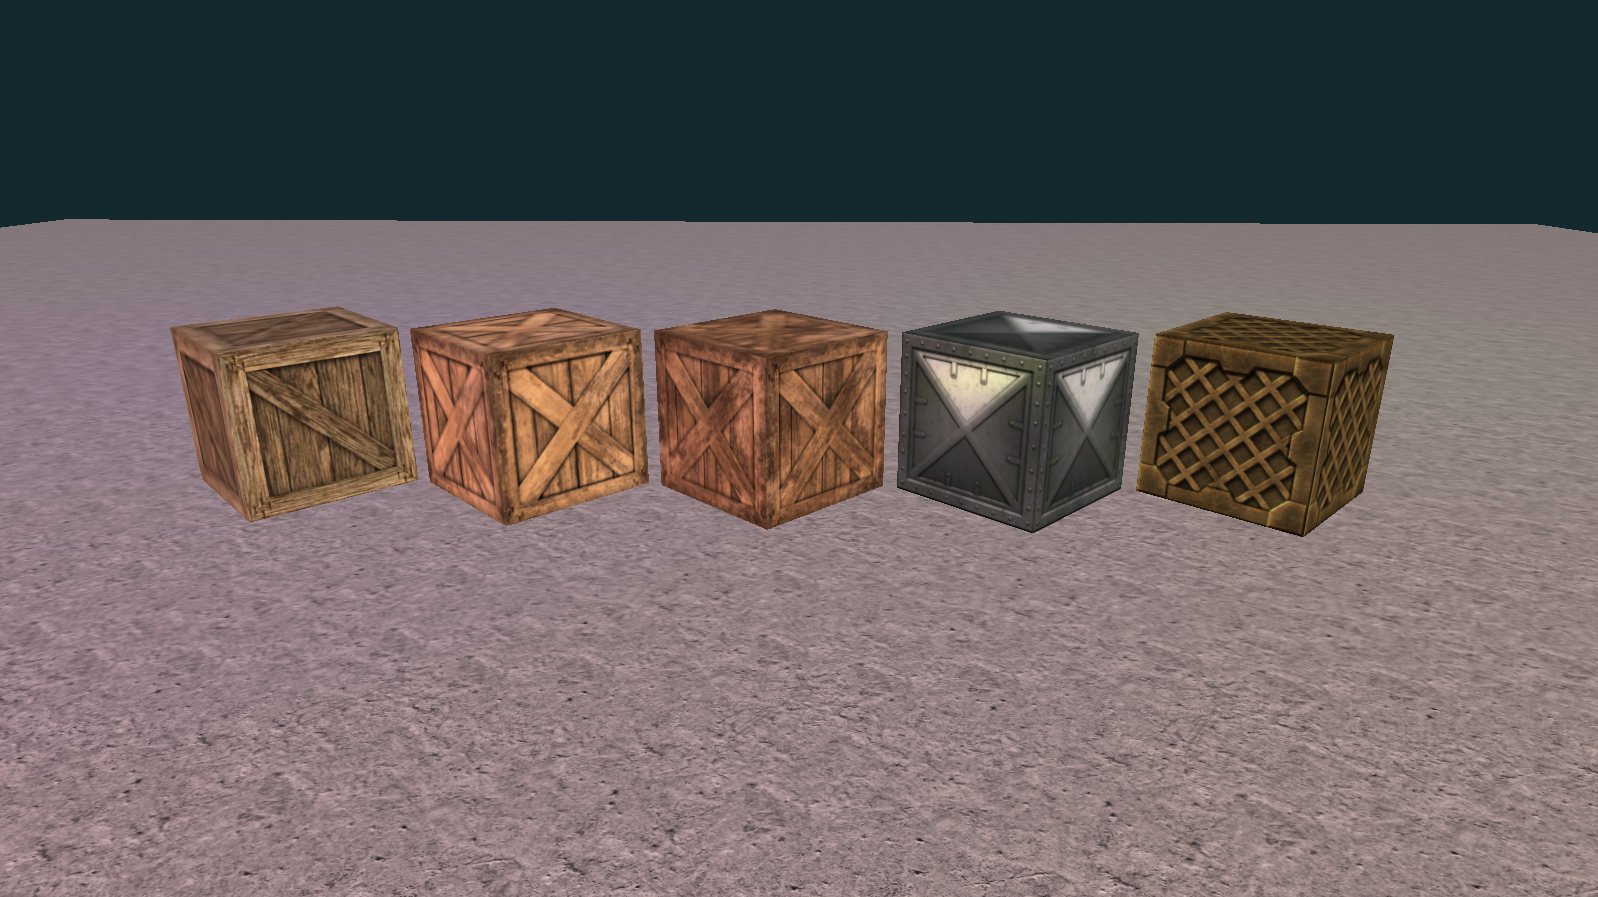
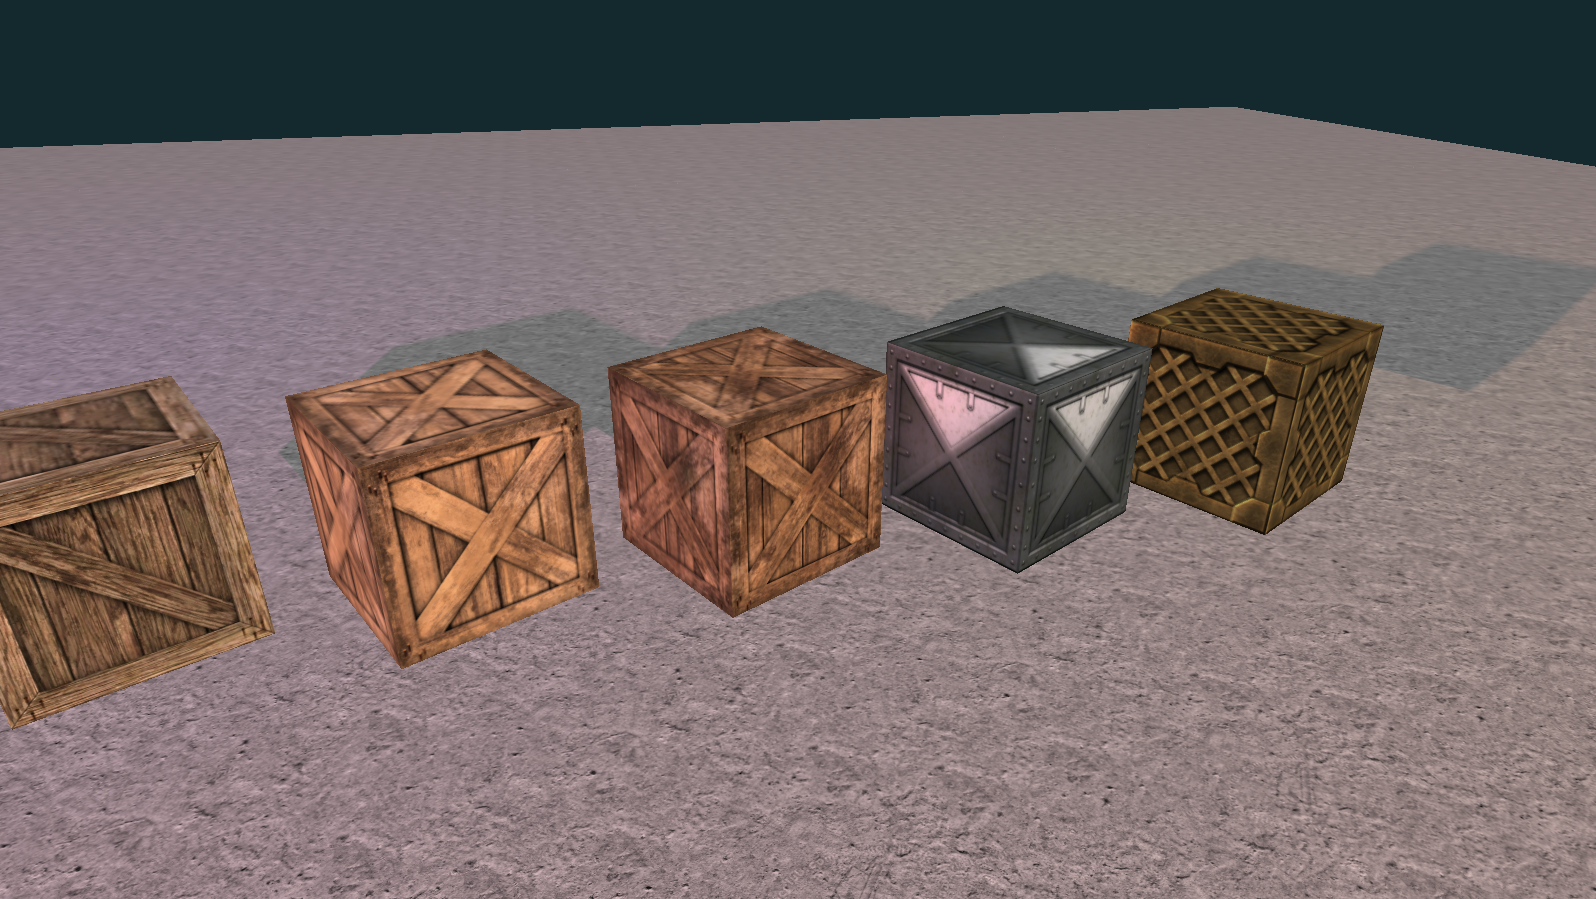
add shadow to pbr

diff --git a/mgl/pbr/model.py b/mgl/pbr/model.py
@@ -2,6 +2,11 @@ import glm
 import numpy
 
 
+def generate_vertex_data(vertices, indices):
+    data = [vertices[ind] for triangle in indices for ind in triangle]
+    return numpy.array(data, dtype='f4')
+
+
 class Cube:
     def __init__(self, app, albedo=(0.9, 0.1, 0.1),
                  metallic: float = 0.0, roughness: float = 0.0, ao: float = 1.0,
@@ -14,15 +19,23 @@ class Cube:
         self.metallic = metallic
         self.roughness = roughness
         self.ao = ao
+
         self.vbo = self.get_vbo()
-        self.shader_program = self.get_shader_program()
+        self.shader_program = app.shader.get_shader('default')
         self.vao = self.get_vao()
+
+        # self.shadow_vbo = self.get_vbo()
+        self.shadow_program = app.shader.get_shader('shadow')
+        self.shadow_vao = self.get_shadow_vao()
+
         self.tex_id = app.texture.get_texture(path=f'textures/{texture}.png')
+        self.depth_tex_id = app.shadow.depth_tex_id
+        self.m_model = self.position
         self.on_init()
 
     def on_init(self):
-        # Texture
-        self.shader_program['u_texture_0'] = self.tex_id
+        # Set resolution
+        self.shader_program['u_resolution'].write(glm.vec2(self.app.win_size))
         # n lights
         self.shader_program['num_lights'].value = len(self.app.lights)
         # Send lights into uniform array of Light struct
@@ -30,6 +43,7 @@ class Cube:
             self.shader_program[f'lights[{i}].position'].value = light.position
             self.shader_program[f'lights[{i}].color'].value = light.color
             self.shader_program[f'lights[{i}].strength'].value = light.strength
+        self.shader_program['m_view_light'].write(self.app.light.m_view_light)
         # Position
         self.shader_program['m_proj'].write(self.app.camera.m_proj)
         self.shader_program['m_view'].write(self.app.camera.m_view)
@@ -39,28 +53,74 @@ class Cube:
         self.shader_program['material.Km'].value = self.metallic
         self.shader_program['material.Kr'].value = self.roughness
         self.shader_program['material.Kao'].value = self.ao
+        # Shadow depth map
+        self.shader_program['u_shadow_map'] = self.depth_tex_id
+        self.app.texture.textures[self.depth_tex_id].use(location=self.depth_tex_id)
         # Camera
         self.shader_program['camPos'].write = self.app.camera.position
+        # Shadow program
+        self.shadow_program['m_proj'].write(self.app.camera.m_proj)
+        self.shadow_program['m_view_light'].write(self.app.light.m_view_light)
+        self.shadow_program['m_model'].write(self.m_model)
 
     def update(self):
-        m_model = glm.rotate(self.position, self.app.time, glm.vec3(0, 1, 0))
-        self.shader_program['m_view'].write(self.app.camera.m_view)
-        self.shader_program['m_model'].write(m_model)
-        self.shader_program['camPos'].write = self.app.camera.position
+        self.m_model = glm.rotate(self.position, self.app.time, glm.vec3(0, 1, 0))
 
     def render(self):
+        # n lights
+        self.shader_program['num_lights'].value = len(self.app.lights)
+        # Send lights into uniform array of Light struct
+        for i, light in enumerate(self.app.lights):
+            self.shader_program[f'lights[{i}].position'].value = light.position
+            self.shader_program[f'lights[{i}].color'].value = light.color
+            self.shader_program[f'lights[{i}].strength'].value = light.strength
+        self.shader_program['m_view_light'].write(self.app.light.m_view_light)
+        # Position
+        self.shader_program['m_proj'].write(self.app.camera.m_proj)
+        self.shader_program['m_view'].write(self.app.camera.m_view)
+        self.shader_program['m_model'].write(self.m_model)
+        # Material: Albedo (rgb), metallic, rough, ao
+        self.shader_program['material.Ka'].value = self.albedo
+        self.shader_program['material.Km'].value = self.metallic
+        self.shader_program['material.Kr'].value = self.roughness
+        self.shader_program['material.Kao'].value = self.ao
+        # Shadow depth map
+        self.shader_program['u_shadow_map'] = self.depth_tex_id
+        self.app.texture.textures[self.depth_tex_id].use(location=self.depth_tex_id)
+        # Camera
+        self.shader_program['camPos'].write = self.app.camera.position
+        # Texture
+        self.shader_program['u_texture_0'] = self.tex_id
         self.app.texture.textures[self.tex_id].use(location=self.tex_id)
+        # Render
         self.vao.render()
 
+    def render_shadow(self):
+        self.shadow_program['m_proj'].write(self.app.camera.m_proj)
+        self.shadow_program['m_view_light'].write(self.app.light.m_view_light)
+        self.shadow_program['m_model'].write(self.m_model)
+        self.shadow_vao.render()
+
     def destroy(self):
-        self.vbo.release()
-        self.shader_program.release()
         self.vao.release()
+        self.shadow_vao.release()
+        self.shader_program.release()
+        self.shadow_program.release()
+        self.vbo.release()
+        # self.shadow_vbo.release()
 
     def get_vao(self):
         vao = self.ctx.vertex_array(self.shader_program, [
             (self.vbo, '2f 3f 3f', 'in_texcoord_0', 'in_position', 'in_normal'),
         ])
+        return vao
+
+    def get_shadow_vao(self):
+        vao = self.ctx.vertex_array(self.shadow_program, [
+            (self.vbo, '2f 3f 3f', 'in_texcoord_0', 'in_position', 'in_normal'),
+        ], skip_errors=True)
+        # Temporary fix for the issue with the shadow program because we are not using texture coordinates
+        # So we set skip_errors=True to ignore the missing in_texcoord_0 attribute
         return vao
 
     def get_vertex_data(self, size=(0.5, 0.5, 0.5)):
@@ -77,7 +137,7 @@ class Cube:
             (3, 7, 4), (3, 2, 7),
             (0, 6, 1), (0, 5, 6),
         ]
-        vertex_data = self.generate_vertex_data(vertices, indices)
+        vertex_data = generate_vertex_data(vertices, indices)
 
         # Texture coordinates
         texture_coords = [(0, 0), (1, 0), (1, 1), (0, 1)]
@@ -87,7 +147,7 @@ class Cube:
                            (2, 3, 0), (2, 0, 1),
                            (0, 2, 3), (0, 1, 2),
                            (3, 1, 2), (3, 0, 1)]
-        texture_coord_data = self.generate_vertex_data(texture_coords, texture_indices)
+        texture_coord_data = generate_vertex_data(texture_coords, texture_indices)
         vertex_data = numpy.hstack([texture_coord_data, vertex_data])
 
         # Normals
@@ -104,24 +164,8 @@ class Cube:
 
         return numpy.array(vertex_data, dtype='f4')
 
-    @staticmethod
-    def generate_vertex_data(vertices, indices):
-        data = [vertices[ind] for triangle in indices for ind in triangle]
-        return numpy.array(data, dtype='f4')
-
     def get_vbo(self):
         return self.ctx.buffer(self.get_vertex_data(size=self.size))
-
-    def get_shader_program(self, shader_name='default'):
-        with open(f'{self.app.base_path}/{shader_name}.vert', 'r') as f:
-            vertex_shader_source = f.read()
-        with open(f'{self.app.base_path}/{shader_name}.frag', 'r') as f:
-            fragment_shader_source = f.read()
-        shader_program = self.ctx.program(
-            vertex_shader=vertex_shader_source,
-            fragment_shader=fragment_shader_source,
-        )
-        return shader_program
 
 
 class Floor(Cube):

diff --git a/mgl/pbr/core.py b/mgl/pbr/core.py
@@ -100,6 +100,48 @@ class Light:
         return glm.lookAt(self.position, self.direction, glm.vec3(0, 1, 0))
 
 
+class Shader():
+    def __init__(self, app):
+        self.app = app
+        self.ctx = app.ctx
+        self.programs = []
+        self.programs_count = -1
+        self.programs_map = {}
+
+    def get_shader(self, shader_name, geometry=False):
+        if shader_name in self.programs_map:
+            # print(f"Reuse shader: {shader_name} at index: {self.programs_map[shader_name]}")
+            return self.programs[self.programs_map[shader_name]]
+
+        with open(f'{self.app.base_path}/{self.app.shader_path}/{shader_name}.vert', 'r') as f:
+            vertex_shader_source = f.read()
+        with open(f'{self.app.base_path}/{self.app.shader_path}/{shader_name}.frag', 'r') as f:
+            fragment_shader_source = f.read()
+
+        if geometry is True:
+            with open(f'{self.app.base_path}/{self.app.shader_path}/{shader_name}.geom', 'r') as f:
+                geometry_shader_source = f.read()
+            shader_program = self.ctx.program(
+                vertex_shader=vertex_shader_source,
+                fragment_shader=fragment_shader_source,
+                geometry_shader=geometry_shader_source,
+            )
+        else:
+            shader_program = self.ctx.program(
+                vertex_shader=vertex_shader_source,
+                fragment_shader=fragment_shader_source,
+            )
+        self.programs_count += 1
+        self.programs_map[shader_name] = self.programs_count
+        self.programs.append(shader_program)
+        print(f"loaded shader: {shader_name} at index: {self.programs_count}")
+        return shader_program
+
+    def destroy(self):
+        for program in self.programs:
+            program.release()
+
+
 class Texture:
     def __init__(self, app):
         self.app = app
@@ -128,3 +170,53 @@ class Texture:
         self.texture_map[path] = self.texture_count
         self.textures.append(texture)
         return self.texture_count
+
+    def get_depth_texture(self, size, name='depth_texture'):
+        if name in self.texture_map:
+            return self.texture_map[name]
+        depth_texture = self.ctx.depth_texture(size=size)
+        # Remove repetition
+        depth_texture.repeat_x = False
+        depth_texture.repeat_y = False
+        # Add to list
+        self.texture_count += 1
+        self.texture_map[name] = self.texture_count
+        self.textures.append(depth_texture)
+        print(f"loaded depth texture: {name} at index: {self.texture_count}")
+        return self.texture_count
+
+    def get_color_texture(self, size, name='color_texture'):
+        if name in self.texture_map:
+            return self.texture_map[name]
+        color_texture = self.ctx.texture(size=size, components=4, samples=4)
+        # Remove repetition
+        color_texture.repeat_x = False
+        color_texture.repeat_y = False
+        # Add to list
+        self.texture_count += 1
+        self.texture_map[name] = self.texture_count
+        self.textures.append(color_texture)
+        print(f"loaded color texture: {name} at index: {self.texture_count}")
+        return self.texture_count
+
+    def destroy(self):
+        for texture in self.textures:
+            texture.release()
+
+
+class Shadow():
+    def __init__(self, app):
+        self.app = app
+        self.ctx = app.ctx
+
+        # Using a texture here not a renderbuffer because we pass it to the shader
+        self.depth_tex_id = self.app.texture.get_depth_texture(self.app.win_size)
+        self.depth_texture = self.app.texture.textures[self.depth_tex_id]
+        # self.depth_buffer = self.ctx.depth_renderbuffer(size=self.app.win_size)
+
+        self.depth_fbo = self.ctx.framebuffer(depth_attachment=self.depth_texture)
+        # self.depth_fbo = self.ctx.framebuffer(depth_attachment=self.depth_buffer)
+
+    def destroy(self):
+        self.depth_fbo.release()
+        self.depth_texture.release()

diff --git a/mgl/pbr/main.py b/mgl/pbr/main.py
@@ -3,7 +3,7 @@ import moderngl
 import sys
 
 from model import Cube, Floor
-from core import Camera, Light, Texture
+from core import Camera, Light, Shadow, Texture, Shader
 
 
 class GraphicsEngine:
@@ -13,6 +13,7 @@ class GraphicsEngine:
     vertical_sync = 0
     target_display = 0
     base_path = '.'
+    shader_path = 'shaders'
     # Variables
     fps = 0
     time = 0
@@ -48,6 +49,10 @@ class GraphicsEngine:
         pygame.time.set_timer(pygame.USEREVENT, 1000 // self.target_fps)
         # Camera
         self.camera = Camera(self, position=(0, 0, 5))
+        # Texture, Shader, Shadow
+        self.texture = Texture(self)
+        self.shader = Shader(self)
+        self.shadow = Shadow(self)
         # Light
         self.light = Light(position=(-5, 2, 5), color=(1.0, 0.0, 0.0), strength=10.0)
         # Light 2
@@ -58,8 +63,6 @@ class GraphicsEngine:
         self.light4 = Light(position=(5, 2, -5), color=(0.0, 1.0, 0.0), strength=20.0)
         # Lights
         self.lights = [self.light, self.light2, self.light3, self.light4]
-        # Texture
-        self.texture = Texture(self)
         # Scene
         self.scene = []
         # Create a nxn grid of Floor
@@ -104,11 +107,21 @@ class GraphicsEngine:
             obj.update()
 
     def render(self):
-        # Clear frame buffer
+        # Clear buffers
+        self.shadow.depth_fbo.clear()
         self.ctx.clear(color=(0.08, 0.16, 0.18))
+
+        # Pass 1 - Render the depth map for the shadows
+        self.shadow.depth_fbo.use()  # Switch to the shadow framebuffer
+        for obj in self.scene:
+            obj.render_shadow()
+
+        # Pass 2 - Render the scene
+        self.ctx.screen.use()  # Switch back to the screen
         # Render scene
         for obj in self.scene:
             obj.render()
+
         # Swap buffers
         pygame.display.flip()
 

diff --git a/mgl/cubes_2/model.py b/mgl/cubes_2/model.py
@@ -29,7 +29,7 @@ class Cube:
         self.shadow_vao = self.get_shadow_vao()
 
         self.tex_id = app.texture.get_texture(path=f'textures/{texture}.png')
-        self.depth_tex_id = app.texture.get_texture("depth_texture")
+        self.depth_tex_id = app.shadow.depth_tex_id
         self.m_model = self.position
         self.on_init()
 
@@ -43,6 +43,7 @@ class Cube:
             self.shader_program[f'lights[{i}].position'].value = light.position
             self.shader_program[f'lights[{i}].color'].value = light.color
             self.shader_program[f'lights[{i}].strength'].value = light.strength
+        self.shader_program['m_view_light'].write(self.app.light.m_view_light)
         # Position
         self.shader_program['m_proj'].write(self.app.camera.m_proj)
         self.shader_program['m_view'].write(self.app.camera.m_view)
@@ -54,7 +55,6 @@ class Cube:
         self.shader_program['material.Kao'].value = self.ao
         # Shadow depth map
         self.shader_program['u_shadow_map'] = self.depth_tex_id
-        self.shader_program['m_view_light'].write(self.app.light.m_view_light)
         self.app.texture.textures[self.depth_tex_id].use(location=self.depth_tex_id)
         # Texture
         self.shader_program['u_texture_0'] = self.tex_id

diff --git a/README.md b/README.md
@@ -107,7 +107,7 @@ Using textured cubes, shader programs, skybox, lighting and shadows. This is the
 
 This project is useful to highlight reuse of assets and resources in ModernGL. So the class structure and caching of resources is important to reduce memory usage and improve rendering performance.
 
-### mgl/pbr - Physically based rendering
+### mgl/pbr - Physically based rendering + Shadows
 
 Physically Based Rendering (PBR) is a rendering technique that simulates the way light interacts with materials in the real world. It is based on the physics of light and materials, and it is used to create realistic lighting and shading effects in 3D graphics.
 
@@ -175,9 +175,11 @@ In the case of large scenes, we need to use a 'chunk' system to load and unload 
 
 ### mgl/ground_4 - Chunks + dynamic loading
 
-<!-- Obviously the ground_3 demo is slow with a large height map, so I've added a chunk system to load and unload parts of the height map as the camera moves around. -->
+Obviously the ground_3 demo is slow with a large height map, so I've added a chunk system to load and unload parts of the height map as the camera moves around.
 
 <!-- ![Screenshots](./screenshots/mgl_ground4.PNG) -->
+
+This is an excellent showcase of data-structures and algorithms in action. The chunk system is a way to load and unload parts of the scene as the camera moves around. This is done by dividing the scene into chunks and loading and unloading the chunks as the camera moves around.
 
 Not ready yet...
 
